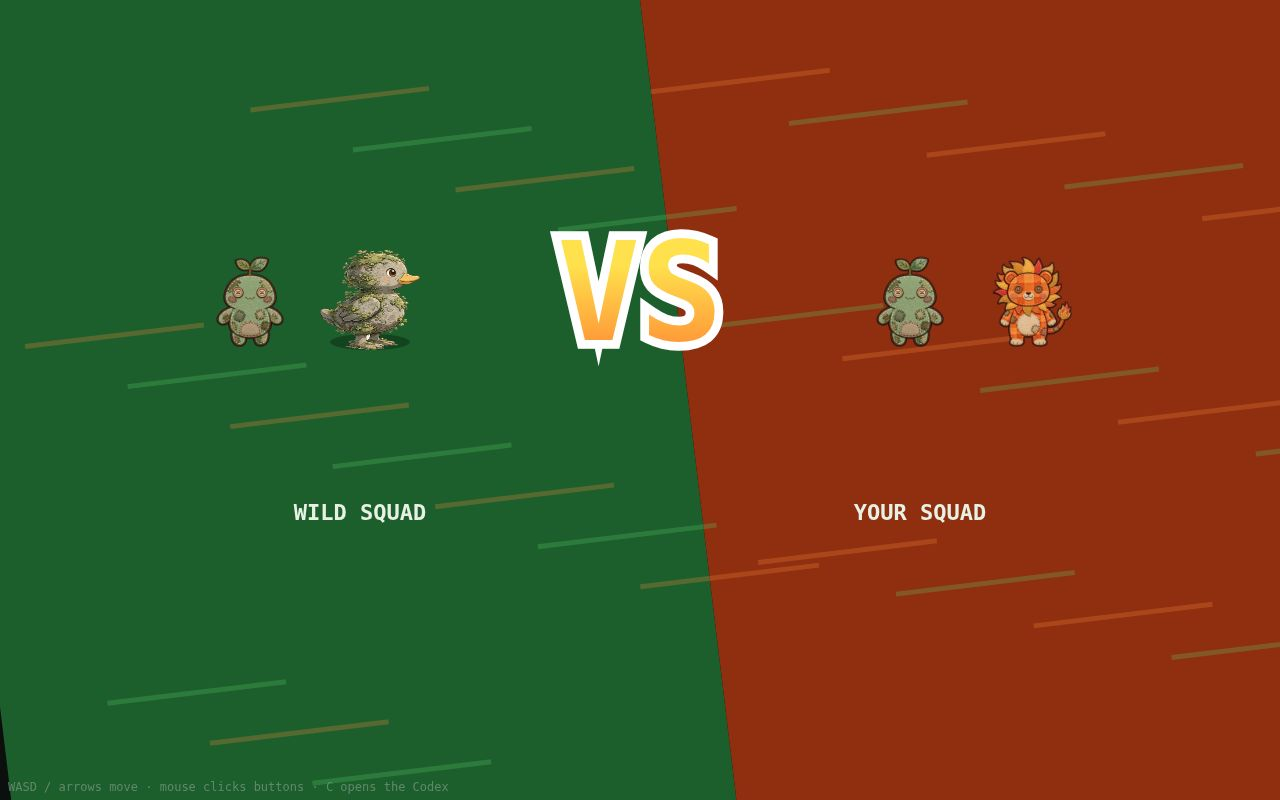
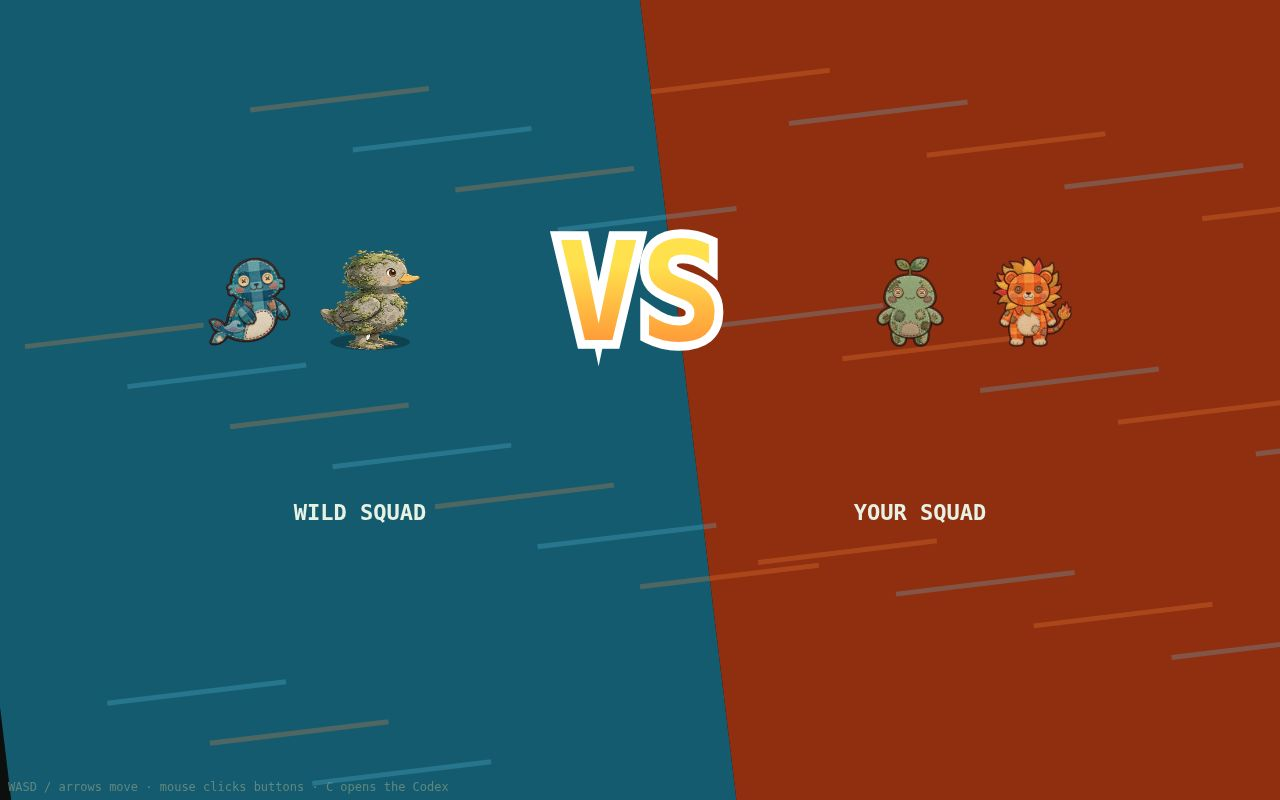
pre-fulltree local state

diff --git a/game/src/run.js b/game/src/run.js
@@ -353,7 +353,7 @@ export function restoreRun(data) {
 const EL_COLOR = (id) => ELEMENT_COLORS[SPECIES[id]?.element] || '#9fd8c8';
 const heartsRow = (ctx, x, y, run) => {
   for (let i = 0; i < 10; i++) {
-    ctx.font = '20px monospace'; ctx.fillStyle = i < run.hearts ? '#ff6a7a' : 'rgba(255,255,255,.14)';
+    ctx.font = '20px monospace'; ctx.fillStyle = i < run.hearts ? '#ff6a7a' : 'rgba(91,70,54,.20)';
     ctx.fillText('♥', x + i * 24, y);
   }
 };
@@ -381,9 +381,9 @@ export function drawRun(ctx, run, t, mouse) {
 
 function button(ctx, b, label, hot, sub) {
   if (!drawSlice(ctx, 'shop_button', b.x, b.y, b.w, Math.max(48, b.h), 18, hot ? 1 : 0.9)) {
-    ctx.fillStyle = hot ? 'rgba(255,209,106,.22)' : 'rgba(255,255,255,.06)';
+    ctx.fillStyle = hot ? 'rgba(255,201,60,.35)' : 'rgba(255,201,60,.10)';
     roundRect(ctx, b.x, b.y, b.w, b.h, 12); ctx.fill();
-    ctx.strokeStyle = hot ? '#ffd26a' : '#6f8f7d'; ctx.lineWidth = hot ? 3 : 2; ctx.stroke();
+    ctx.strokeStyle = hot ? '#d99a16' : '#5b4636'; ctx.lineWidth = hot ? 3 : 2; ctx.stroke();
   }
   ctx.fillStyle = '#3b2c17'; ctx.font = 'bold 17px monospace'; ctx.textAlign = 'center';
   ctx.fillText(label, b.x + b.w / 2, b.y + (sub ? 26 : b.h / 2 + 6));
@@ -401,7 +401,7 @@ function drawTrainerSelect(ctx, run, t, mouse) {
     run._btns = run._btns || []; run._btns[i] = { ...b, id: `trainer:${tr.id}` };
     const hot = mouse && mouse.x >= b.x && mouse.x <= b.x + b.w && mouse.y >= b.y && mouse.y <= b.y + b.h;
     if (!drawSlice(ctx, 'trainer_frame', b.x, b.y, b.w, b.h, 24, hot ? 1 : 0.92)) {
-      ctx.fillStyle = hot ? 'rgba(255,209,106,.10)' : 'rgba(255,255,255,.05)';
+      ctx.fillStyle = hot ? 'rgba(255,201,60,.28)' : 'rgba(255,201,60,.10)';
       roundRect(ctx, b.x, b.y, b.w, b.h, 16); ctx.fill();
       ctx.strokeStyle = ELEMENT_COLORS[tr.element] || '#8ef2a0'; ctx.lineWidth = hot ? 3 : 2; ctx.stroke();
     }
@@ -439,7 +439,7 @@ function drawShop(ctx, run, t, mouse) {
     const hot = inRect(mouse, b);
     ctx.globalAlpha = offer ? 1 : 0.25;
     if (!drawSlice(ctx, offer && offer.kind === 'item' ? 'shop_item' : 'shop_card', b.x, b.y, b.w, b.h, 16, 1)) {
-      ctx.fillStyle = hot ? 'rgba(142,242,160,.14)' : 'rgba(255,255,255,.05)';
+      ctx.fillStyle = hot ? 'rgba(127,191,106,.25)' : 'rgba(255,201,60,.10)';
       roundRect(ctx, b.x, b.y, b.w, b.h, 12); ctx.fill();
       ctx.strokeStyle = offer ? EL_COLOR(offer.species) : '#556'; ctx.lineWidth = 2; ctx.stroke();
     }
@@ -470,7 +470,7 @@ function drawShop(ctx, run, t, mouse) {
   run.board.forEach((c, i) => {
     const b = { x: X0 + i * (BW + 8), y: 280, w: BW, h: BH };
     run._btns.push({ ...b, id: `board:${i}` });
-    ctx.fillStyle = inRect(mouse, b) ? 'rgba(255,157,106,.12)' : 'rgba(255,255,255,.05)';
+    ctx.fillStyle = inRect(mouse, b) ? 'rgba(233,106,138,.18)' : 'rgba(255,201,60,.10)';
     roundRect(ctx, b.x, b.y, b.w, b.h, 12); ctx.fill();
     ctx.strokeStyle = EL_COLOR(c.species); ctx.lineWidth = 2; ctx.stroke();
     ctx.save(); ctx.translate(b.x + 52, b.y + 60); ctx.scale(0.7, 0.7);
@@ -490,7 +490,7 @@ function drawShop(ctx, run, t, mouse) {
   ctx.fillText('TRINKETS:', X0, 480);
   run.trinkets.forEach((tr, i) => {
     const b = { x: X0 + 90 + i * 118, y: 462, w: 112, h: 30 };
-    ctx.fillStyle = 'rgba(255,209,106,.12)'; roundRect(ctx, b.x, b.y, b.w, b.h, 8); ctx.fill();
+    ctx.fillStyle = 'rgba(255,201,60,.20)'; roundRect(ctx, b.x, b.y, b.w, b.h, 8); ctx.fill();
     ctx.strokeStyle = '#c8a355'; ctx.stroke();
     ctx.fillStyle = '#3b2c17'; ctx.font = '11px monospace'; ctx.fillText(tr.name, b.x + 8, b.y + 19);
   });
@@ -517,7 +517,7 @@ function drawShop(ctx, run, t, mouse) {
   // pending merge trinket picker overlay
   if (run.mergeTrinketPending && run.mergeTrinkets) drawTrinketRow(ctx, run, mouse, run.mergeTrinkets, 'pick your merge bonus');
 
-  if (!run.board.length) { ctx.fillStyle = '#ff9d6a'; ctx.font = 'bold 14px monospace'; ctx.textAlign = 'center'; ctx.fillText('buy at least one monster before battle', VIEW_W / 2, 630); ctx.textAlign = 'left'; }
+  if (!run.board.length) { ctx.fillStyle = '#e85d4a'; ctx.font = 'bold 14px monospace'; ctx.textAlign = 'center'; ctx.fillText('buy at least one monster before battle', VIEW_W / 2, 630); ctx.textAlign = 'left'; }
 }
 
 function drawTrinketRow(ctx, run, mouse, list, label) {
@@ -528,7 +528,7 @@ function drawTrinketRow(ctx, run, mouse, list, label) {
     const b = { x: X0 + i * (W + 20), y: 660, w: W, h: 96 };
     run._btns.push({ ...b, id: `trinket:${i}` });
     const hot = inRect(mouse, b);
-    ctx.fillStyle = hot ? 'rgba(255,209,106,.16)' : 'rgba(255,255,255,.05)';
+    ctx.fillStyle = hot ? 'rgba(255,201,60,.30)' : 'rgba(255,201,60,.10)';
     roundRect(ctx, b.x, b.y, b.w, b.h, 12); ctx.fill();
     ctx.strokeStyle = '#c8a355'; ctx.lineWidth = hot ? 2.5 : 1.5; ctx.stroke();
     ctx.fillStyle = '#3b2c17'; ctx.font = 'bold 16px monospace'; ctx.fillText(tr.name, b.x + 14, b.y + 30);
@@ -555,7 +555,7 @@ function drawReward(ctx, run, mouse) {
   run._btns = [];
   const r = run.reward;
   ctx.textAlign = 'center';
-  ctx.font = 'bold 34px monospace'; ctx.fillStyle = r.gain > 0 ? '#8ef2a0' : '#ff9d6a';
+  ctx.font = 'bold 34px monospace'; ctx.fillStyle = r.gain > 0 ? '#2e9e4f' : '#e85d4a';
   ctx.fillText(r.trinkets.length ? 'VICTORY!' : 'DEFEAT…', VIEW_W / 2, 140);
   ctx.font = 'bold 20px monospace'; ctx.fillStyle = '#3b2c17';
   ctx.fillText(`+⬤ ${r.gain}`, VIEW_W / 2, 178);
@@ -575,9 +575,9 @@ function drawReward(ctx, run, mouse) {
 function drawChampion(ctx, run, mouse) {
   // FIX: same stale-button shadowing as drawReward — rebuild the hit list.
   run._btns = [];
-  ctx.textAlign = 'center'; ctx.font = 'bold 40px monospace'; ctx.fillStyle = '#ffe9b1';
+  ctx.textAlign = 'center'; ctx.font = 'bold 40px monospace'; ctx.fillStyle = '#d99a16';
   ctx.fillText('★ YOU ARE A QUILT CHAMPION ★', VIEW_W / 2, 260);
-  ctx.font = '18px monospace'; ctx.fillStyle = '#8ef2a0';
+  ctx.font = '18px monospace'; ctx.fillStyle = '#2e9e4f';
   ctx.fillText(`Day 10 cleared with ${run.hearts} hearts · rank: ${run.rank}`, VIEW_W / 2, 310);
   ctx.textAlign = 'left';
   const opts = [{ id: 'endless', label: 'EXTENDED (endless)', x: VIEW_W / 2 - 300 }, { id: 'menu', label: 'MAIN MENU', x: VIEW_W / 2 + 40 }];
@@ -591,7 +591,7 @@ function drawChampion(ctx, run, mouse) {
 function drawOver(ctx, run, mouse) {
   // FIX: same stale-button shadowing as drawReward — rebuild the hit list.
   run._btns = [];
-  ctx.textAlign = 'center'; ctx.font = 'bold 36px monospace'; ctx.fillStyle = '#ff9d6a';
+  ctx.textAlign = 'center'; ctx.font = 'bold 36px monospace'; ctx.fillStyle = '#e85d4a';
   ctx.fillText('RUN OVER', VIEW_W / 2, 250);
   ctx.font = '18px monospace'; ctx.fillStyle = '#9fd8c8';
   ctx.fillText(`survived to Day ${run.day} · best Day ${run.bestDay} · ${run.champion ? 'CHAMPION' : 'rank ' + run.rank}`, VIEW_W / 2, 300);

diff --git a/game/src/hud.js b/game/src/hud.js
@@ -87,8 +87,8 @@ function hpColor(frac) { return frac > 0.5 ? PALETTE.hpGood : frac > 0.22 ? PALE
 
 export function hpBar(ctx, x, y, w, h, frac) {
   if (hpBarArt(ctx, x, y, w, h, frac)) return;
-  ctx.fillStyle = '#0a0f0a'; roundRect(ctx, x, y, w, h, h / 2); ctx.fill();
-  ctx.strokeStyle = '#31493a'; ctx.lineWidth = 2; roundRect(ctx, x, y, w, h, h / 2); ctx.stroke();
+  ctx.fillStyle = '#e7dcc0'; roundRect(ctx, x, y, w, h, h / 2); ctx.fill();
+  ctx.strokeStyle = '#5b4636'; ctx.lineWidth = 2; roundRect(ctx, x, y, w, h, h / 2); ctx.stroke();
   if (frac > 0.001) {
     ctx.fillStyle = hpColor(frac);
     roundRect(ctx, x + 2, y + 2, Math.max(h - 4, (w - 4) * frac), h - 4, (h - 4) / 2); ctx.fill();
@@ -152,7 +152,7 @@ export function drawFieldHud(ctx, state, t) {
     ctx.font = 'bold 26px monospace'; ctx.textAlign = 'center';
     const w = ctx.measureText(world.notice.text).width + 60;
     panel(ctx, VIEW_W / 2 - w / 2, 108, w, 56, 0.94);
-    ctx.fillStyle = PALETTE.paper;
+    ctx.fillStyle = INK;
     ctx.fillText(world.notice.text, VIEW_W / 2, 145);
     ctx.textAlign = 'left';
   }
@@ -164,12 +164,12 @@ export function drawHudButton(ctx, x, y, w, h, label, hot = false) {
   if (drawButtonArt(ctx, x, y, w, h, hot)) {
     // sprite drawn; skip procedural fill below
   } else {
-    ctx.fillStyle = hot ? '#2a4f38' : PALETTE.panel;
+    ctx.fillStyle = hot ? '#ffc93c' : PALETTE.panel;
     roundRect(ctx, x, y, w, h, 10); ctx.fill();
     ctx.strokeStyle = hot ? ELEMENT_COLORS.Verdant.main : PALETTE.panelEdge; ctx.lineWidth = 2.5;
     roundRect(ctx, x, y, w, h, 10); ctx.stroke();
   }
-  ctx.fillStyle = PALETTE.paper; ctx.font = 'bold 15px monospace'; ctx.textAlign = 'center';
+  ctx.fillStyle = INK; ctx.font = 'bold 15px monospace'; ctx.textAlign = 'center';
   ctx.fillText(label, x + w / 2, y + h / 2 + 5);
   ctx.restore();
 }
@@ -202,8 +202,8 @@ export function drawBattleHud(ctx, battle, state, t, buttons, hovered) {
   ctx.fillText(`${battle.player.hp}/${battle.player.stats.hp}`, VIEW_W - 148, 537);
   ctx.textAlign = 'left';
   // xp bar
-  ctx.fillStyle = '#0a0f0a'; roundRect(ctx, VIEW_W - 462, 548, 268, 8, 4); ctx.fill();
-  ctx.fillStyle = '#6fa8ff'; roundRect(ctx, VIEW_W - 462, 548, Math.max(8, 268 * (battle.player.xp / battle.player.xpNext)), 8, 4); ctx.fill();
+  ctx.fillStyle = '#e7dcc0'; roundRect(ctx, VIEW_W - 462, 548, 268, 8, 4); ctx.fill();
+  ctx.fillStyle = '#7ec8e3'; roundRect(ctx, VIEW_W - 462, 548, Math.max(8, 268 * (battle.player.xp / battle.player.xpNext)), 8, 4); ctx.fill();
   ctx.font = '11px monospace'; ctx.fillStyle = INK_SUB; ctx.textAlign = 'left';
   ctx.fillText(`XP ${battle.player.xp}/${battle.player.xpNext}`, VIEW_W - 462, 572);
   ctx.textAlign = 'left';
@@ -213,7 +213,7 @@ export function drawBattleHud(ctx, battle, state, t, buttons, hovered) {
     const x = 60 + i * 96, y = VIEW_H - 46;
     ctx.fillStyle = c.hp > 0 ? ELEMENT_COLORS[SPECIES[c.species].element].main : '#3a3f3a';
     ctx.beginPath(); ctx.arc(x, y, 12, 0, 7); ctx.fill();
-    ctx.strokeStyle = battle.player === c ? PALETTE.paper : 'rgba(0,0,0,.5)'; ctx.lineWidth = 3; ctx.stroke();
+    ctx.strokeStyle = battle.player === c ? INK : 'rgba(0,0,0,.5)'; ctx.lineWidth = 3; ctx.stroke();
     ctx.fillStyle = PALETTE.paper; ctx.font = '11px monospace'; ctx.textAlign = 'center';
     ctx.fillText(`L${c.level}`, x, y + 4);
     ctx.textAlign = 'left';
@@ -223,7 +223,7 @@ export function drawBattleHud(ctx, battle, state, t, buttons, hovered) {
   for (const b of buttons) {
     drawHudButton(ctx, b.x, b.y, b.w, b.h, b.label, hovered === b.id);
     if (b.sub) {
-      ctx.fillStyle = '#9fb8a6'; ctx.font = '11px monospace'; ctx.textAlign = 'center';
+      ctx.fillStyle = INK_SUB; ctx.font = '11px monospace'; ctx.textAlign = 'center';
       ctx.fillText(b.sub, b.x + b.w / 2, b.y + b.h + 15); ctx.textAlign = 'left';
     }
   }

diff --git a/game/src/showdown.js b/game/src/showdown.js
@@ -338,14 +338,14 @@ export function drawShowdown(ctx, sd, t) {
   if (sd.zone && drawBattleBg(ctx, sd.zone, W, H)) { /* painted backdrop */ }
   else {
     const bg = ctx.createLinearGradient(0, 0, 0, H);
-    bg.addColorStop(0, '#131a14'); bg.addColorStop(1, '#0b0f0d');
+    bg.addColorStop(0, '#dff3fb'); bg.addColorStop(1, '#fff3c4');
     ctx.fillStyle = bg; ctx.fillRect(0, 0, W, H);
   }
 
   if (sd.phase === 'vs') { drawVsCard(ctx, sd); return; }
 
   // arena floor band
-  ctx.fillStyle = 'rgba(0,0,0,.18)';
+  ctx.fillStyle = 'rgba(91,70,54,.12)';
   ctx.fillRect(0, 260, W, 340);
 
   const shakeX = sd.shake > 0 ? Math.sin(t * 70) * 4 * sd.shake : 0;
@@ -430,21 +430,21 @@ export function drawShowdown(ctx, sd, t) {
     ctx.strokeText(`Lv.${u.c.level}`, p.x, p.y - size * 0.62);
     ctx.fillText(`Lv.${u.c.level}`, p.x, p.y - size * 0.62);
     if (u.ability) {
-      ctx.fillStyle = '#9fd8c8';
+      ctx.fillStyle = '#2e9e8f';
       ctx.strokeText(ABILITIES[u.ability].name.toUpperCase(), p.x, p.y - size * 0.62 - 14);
       ctx.fillText(ABILITIES[u.ability].name.toUpperCase(), p.x, p.y - size * 0.62 - 14);
     }
     // per-unit hp bar
     const bw = size * 0.86;
     const hpf = u.maxHp ? u.hp / u.maxHp : 0;
-    ctx.fillStyle = 'rgba(6,10,6,.85)'; roundRect(ctx, p.x - bw / 2, p.y + size * 0.52, bw, 8, 4); ctx.fill();
+    ctx.fillStyle = 'rgba(59,44,23,.85)'; roundRect(ctx, p.x - bw / 2, p.y + size * 0.52, bw, 8, 4); ctx.fill();
     if (hpf > 0) {
       ctx.fillStyle = hpf > 0.5 ? PALETTE.hpGood : hpf > 0.22 ? PALETTE.hpMid : PALETTE.hpBad;
       roundRect(ctx, p.x - bw / 2 + 1, p.y + size * 0.52 + 1, (bw - 2) * hpf, 6, 3); ctx.fill();
     }
     // charge bar
     if (u.alive) {
-      ctx.fillStyle = 'rgba(6,10,6,.85)'; roundRect(ctx, p.x - bw / 2, p.y + size * 0.52 + 12, bw, 6, 3); ctx.fill();
+      ctx.fillStyle = 'rgba(59,44,23,.85)'; roundRect(ctx, p.x - bw / 2, p.y + size * 0.52 + 12, bw, 6, 3); ctx.fill();
       const el = ELEMENT_COLORS[u.sp.element];
       ctx.fillStyle = u.charge >= 1 ? '#ffffff' : el.main;
       roundRect(ctx, p.x - bw / 2 + 1, p.y + size * 0.52 + 13, (bw - 2) * Math.min(1, u.charge), 4, 2); ctx.fill();

diff --git a/game/src/config.js b/game/src/config.js
@@ -27,10 +27,10 @@ export const DEFEAT_PENALTY_ITEMS = 1; // lost seedstones when the party falls
 export const T = { GROUND: 0, GRASS: 1, ROCK: 2, WATER: 3, PATH: 4, FLOWER: 5, EXIT_E: 6, EXIT_W: 7, BOSS: 8, SPRING: 9, PILLAR: 10 };
 
 export const PALETTE = {
-  ink: '#0b0f0d',
-  paper: '#e8f2e4',
-  panel: '#152420',
-  panelEdge: '#3b5a47',
+  ink: '#241a12',
+  paper: '#fff6dc',
+  panel: '#fff6dc',
+  panelEdge: '#5b4636',
   shadow: 'rgba(0,0,0,.45)',
   hpGood: '#57d27a',
   hpMid: '#e6c84a',
@@ -51,7 +51,7 @@ export const ELEMENT_COLORS = {
 };
 
 export const ZONES = [
-  { id: 'moss', name: 'Moss Meadow', bg: '#18311f', accent: '#5fd36a', music: 0 },
-  { id: 'cliff', name: 'Cinder Bluff', bg: '#30160c', accent: '#ff8a3c', music: 1 },
-  { id: 'temple', name: 'Gloom Shrine', bg: '#1c1230', accent: '#a05fe0', music: 2 },
+  { id: 'moss', name: 'Moss Meadow', bg: '#cfe8b4', accent: '#5fd36a', music: 0 },
+  { id: 'cliff', name: 'Cinder Bluff', bg: '#ffd9a8', accent: '#ff8a3c', music: 1 },
+  { id: 'temple', name: 'Gloom Shrine', bg: '#e3d4f5', accent: '#a05fe0', music: 2 },
 ];

diff --git a/game/src/bg.js b/game/src/bg.js
@@ -26,7 +26,7 @@ export function drawBattleBg(ctx, zoneId, w, h) {
   const entry = cache[id];
   if (!entry || !entry.ok) return false;
   ctx.drawImage(entry.img, 0, 0, w, h);
-  ctx.fillStyle = 'rgba(8,10,14,0.30)';
+  ctx.fillStyle = 'rgba(91,70,54,0.15)';
   ctx.fillRect(0, 0, w, h);
   return true;
 }

diff --git a/game/_bright_patch.py b/game/_bright_patch.py
@@ -1,0 +1,130 @@
+import re, sys, shutil, os
+
+R = os.path.expanduser('~/makefun/bgrepo/game')
+
+def sub(path, pairs):
+    p = os.path.join(R, path)
+    s = open(p).read()
+    for old, new, *opt in pairs:
+        cnt = opt[0] if opt else 1
+        n = s.count(old)
+        if n != cnt:
+            print(f'FAIL {path}: expected {cnt} of {old!r}, found {n}'); sys.exit(1)
+        s = s.replace(old, new)
+    open(p, 'w').write(s)
+    print('ok', path)
+
+# assets: copy all except coin_icon (byte-identical)
+pack = '/home/andre/bright-v2/pack'
+for f in os.listdir(pack):
+    if f.endswith('.png') and f != 'coin_icon.png':
+        shutil.copy(os.path.join(pack, f), os.path.join(R, 'assets/ui', f))
+        print('asset', f)
+
+sub('src/config.js', [
+    ("ink: '#0b0f0d',", "ink: '#241a12',"),
+    ("paper: '#e8f2e4',", "paper: '#fff6dc',"),
+    ("panel: '#152420',", "panel: '#fff6dc',"),
+    ("panelEdge: '#3b5a47',", "panelEdge: '#5b4636',"),
+    ("bg: '#18311f'", "bg: '#cfe8b4'"),
+    ("bg: '#30160c'", "bg: '#ffd9a8'"),
+    ("bg: '#1c1230'", "bg: '#e3d4f5'"),
+])
+
+sub('src/hud.js', [
+    ("ctx.fillStyle = '#0a0f0a'; roundRect(ctx, x, y, w, h, h / 2)", "ctx.fillStyle = '#e7dcc0'; roundRect(ctx, x, y, w, h, h / 2)"),
+    ("ctx.strokeStyle = '#31493a'", "ctx.strokeStyle = '#5b4636'"),
+    ("panel(ctx, VIEW_W / 2 - w / 2, 108, w, 56, 0.94);\n    ctx.fillStyle = PALETTE.paper;", "panel(ctx, VIEW_W / 2 - w / 2, 108, w, 56, 0.94);\n    ctx.fillStyle = INK;"),
+    ("ctx.fillStyle = hot ? '#2a4f38' : PALETTE.panel;", "ctx.fillStyle = hot ? '#ffc93c' : PALETTE.panel;"),
+    ("ctx.fillStyle = PALETTE.paper; ctx.font = 'bold 15px monospace'", "ctx.fillStyle = INK; ctx.font = 'bold 15px monospace'"),
+    ("ctx.fillStyle = '#0a0f0a'; roundRect(ctx, VIEW_W - 462, 548, 268, 8, 4)", "ctx.fillStyle = '#e7dcc0'; roundRect(ctx, VIEW_W - 462, 548, 268, 8, 4)"),
+    ("ctx.fillStyle = '#6fa8ff'; roundRect(ctx, VIEW_W - 462", "ctx.fillStyle = '#7ec8e3'; roundRect(ctx, VIEW_W - 462"),
+    ("ctx.strokeStyle = battle.player === c ? PALETTE.paper : 'rgba(0,0,0,.5)'", "ctx.strokeStyle = battle.player === c ? INK : 'rgba(0,0,0,.5)'"),
+    ("ctx.fillStyle = '#9fb8a6'; ctx.font = '11px monospace'", "ctx.fillStyle = INK_SUB; ctx.font = '11px monospace'"),
+])
+
+sub('src/showdown.js', [
+    ("bg.addColorStop(0, '#131a14'); bg.addColorStop(1, '#0b0f0d');", "bg.addColorStop(0, '#dff3fb'); bg.addColorStop(1, '#fff3c4');"),
+    ("ctx.fillStyle = 'rgba(0,0,0,.18)';", "ctx.fillStyle = 'rgba(91,70,54,.12)';"),
+    ("ctx.fillStyle = '#9fd8c8';\n", "ctx.fillStyle = '#2e9e8f';\n", 1),
+    ("ctx.fillStyle = 'rgba(6,10,6,.85)'", "ctx.fillStyle = 'rgba(59,44,23,.85)'", 2),
+])
+
+sub('src/bg.js', [("'rgba(8,10,14,0.30)'", "'rgba(91,70,54,0.15)'")])
+
+sub('src/run.js', [
+    ("'rgba(255,255,255,.14)'", "'rgba(91,70,54,.20)'"),
+    ("ctx.fillStyle = hot ? 'rgba(255,209,106,.22)' : 'rgba(255,255,255,.06)';", "ctx.fillStyle = hot ? 'rgba(255,201,60,.35)' : 'rgba(255,201,60,.10)';"),
+    ("ctx.strokeStyle = hot ? '#ffd26a' : '#6f8f7d';", "ctx.strokeStyle = hot ? '#d99a16' : '#5b4636';"),
+    ("ctx.fillStyle = hot ? 'rgba(255,209,106,.10)' : 'rgba(255,255,255,.05)';", "ctx.fillStyle = hot ? 'rgba(255,201,60,.28)' : 'rgba(255,201,60,.10)';"),
+    ("ctx.fillStyle = hot ? 'rgba(142,242,160,.14)' : 'rgba(255,255,255,.05)';", "ctx.fillStyle = hot ? 'rgba(127,191,106,.25)' : 'rgba(255,201,60,.10)';"),
+    ("ctx.fillStyle = inRect(mouse, b) ? 'rgba(255,157,106,.12)' : 'rgba(255,255,255,.05)';", "ctx.fillStyle = inRect(mouse, b) ? 'rgba(233,106,138,.18)' : 'rgba(255,201,60,.10)';"),
+    ("ctx.fillStyle = 'rgba(255,209,106,.12)';", "ctx.fillStyle = 'rgba(255,201,60,.20)';"),
+    ("ctx.fillStyle = hot ? 'rgba(255,209,106,.16)' : 'rgba(255,255,255,.05)';", "ctx.fillStyle = hot ? 'rgba(255,201,60,.30)' : 'rgba(255,201,60,.10)';"),
+    ("ctx.fillStyle = '#ff9d6a'; ctx.font = 'bold 14px monospace'", "ctx.fillStyle = '#e85d4a'; ctx.font = 'bold 14px monospace'"),
+    ("ctx.font = 'bold 34px monospace'; ctx.fillStyle = r.gain > 0 ? '#8ef2a0' : '#ff9d6a';", "ctx.font = 'bold 34px monospace'; ctx.fillStyle = r.gain > 0 ? '#2e9e4f' : '#e85d4a';"),
+    ("ctx.textAlign = 'center'; ctx.font = 'bold 40px monospace'; ctx.fillStyle = '#ffe9b1';", "ctx.textAlign = 'center'; ctx.font = 'bold 40px monospace'; ctx.fillStyle = '#d99a16';"),
+    ("ctx.font = '18px monospace'; ctx.fillStyle = '#8ef2a0';", "ctx.font = '18px monospace'; ctx.fillStyle = '#2e9e4f';"),
+    ("ctx.textAlign = 'center'; ctx.font = 'bold 36px monospace'; ctx.fillStyle = '#ff9d6a';", "ctx.textAlign = 'center'; ctx.font = 'bold 36px monospace'; ctx.fillStyle = '#e85d4a';"),
+])
+
+sub('src/screens.js', [
+    ("g.addColorStop(0, '#0c1a10'); g.addColorStop(0.6, '#10241a'); g.addColorStop(1, '#1c1230');", "g.addColorStop(0, '#cfeef7'); g.addColorStop(0.6, '#e8f7ee'); g.addColorStop(1, '#fff3c4');"),
+    ("wash.addColorStop(0, 'rgba(10,20,12,0.82)'); wash.addColorStop(0.35, 'rgba(12,24,16,0.45)');", "wash.addColorStop(0, 'rgba(255,246,220,0.30)'); wash.addColorStop(0.35, 'rgba(255,246,220,0.10)');"),
+    ("wash.addColorStop(0.75, 'rgba(16,14,38,0.55)'); wash.addColorStop(1, 'rgba(16,14,38,0.85)');", "wash.addColorStop(0.75, 'rgba(255,214,110,0.15)'); wash.addColorStop(1, 'rgba(255,214,110,0.30)');"),
+    ("ctx.fillStyle = 'rgba(18,28,20,0.55)';", "ctx.fillStyle = 'rgba(255,246,220,0.85)';"),
+    ("ctx.strokeStyle = 'rgba(159,213,168,0.85)';", "ctx.strokeStyle = 'rgba(91,70,54,0.90)';"),
+    ("'bold 58px monospace', PALETTE.paper);", "'bold 58px monospace', '#3b2c17');"),
+    ("'explore · battle · capture the three Tribus', VIEW_W / 2, 212, '18px monospace', '#9fd5a8');", "'explore · battle · capture the three Tribus', VIEW_W / 2, 212, '18px monospace', '#2e7d32');"),
+    ("'14px monospace', '#a8c4ae');", "'14px monospace', '#6d5b3c');"),
+    ("'13px monospace', '#6d8674');", "'13px monospace', '#6d5b3c');"),
+    ("ctx.fillStyle = '#0d1512';", "ctx.fillStyle = '#fdf3d0';"),
+    ("'◈ THE VERDANT CODEX ◈', VIEW_W / 2, 54, 'bold 30px monospace', PALETTE.paper);", "'◈ THE VERDANT CODEX ◈', VIEW_W / 2, 54, 'bold 30px monospace', '#3b2c17');"),
+    ("'14px monospace', '#9fb8a6');", "'14px monospace', '#6d5b3c');"),
+    ("ctx.fillStyle = PALETTE.paper; ctx.font = 'bold 16px monospace';", "ctx.fillStyle = '#3b2c17'; ctx.font = 'bold 16px monospace';"),
+    ("ctx.fillStyle = '#9fb8a6';", "ctx.fillStyle = '#6d5b3c';", 4),
+    ("ctx.fillStyle = caught ? PALETTE.hpGood : '#6f8577';", "ctx.fillStyle = caught ? PALETTE.hpGood : '#2e7d32';"),
+    ("'TYPE CHART', cx + 150, 140, 'bold 17px monospace', PALETTE.paper);", "'TYPE CHART', cx + 150, 140, 'bold 17px monospace', '#3b2c17');"),
+    ("bg.addColorStop(0, '#171029'); bg.addColorStop(1, '#0e2216');", "bg.addColorStop(0, '#fdf3c4'); bg.addColorStop(1, '#d8f0c0');"),
+    ("'bold 42px monospace', '#e8d5ff');", "'bold 42px monospace', '#6a3e8f');"),
+    ("'Nocturne is bound — the showdown is won', VIEW_W / 2, 172, '18px monospace', '#9fd5a8');", "'Nocturne is bound — the showdown is won', VIEW_W / 2, 172, '18px monospace', '#2e7d32');"),
+    ("'bold 20px monospace', PALETTE.paper);", "'bold 20px monospace', '#3b2c17');"),
+    ("'bold 36px monospace', '#ffe14d');", "'bold 36px monospace', '#d99a16');"),
+    ("'12px monospace', '#9fb8a6');", "'12px monospace', '#6d5b3c');", 1),
+    ("ctx.fillStyle = '#12080c';", "ctx.fillStyle = '#ffe3e3';"),
+    ("'bold 38px monospace', '#ff9d9d');", "'bold 38px monospace', '#e85d4a');"),
+    ("'16px monospace', '#c9a8b0');", "'16px monospace', '#8a5a63');"),
+    ("'your Codex and captures are kept', VIEW_W / 2, 500, '13px monospace', '#7d6b70');", "'your Codex and captures are kept', VIEW_W / 2, 500, '13px monospace', '#6d5b3c');"),
+])
+
+sub('src/road.js', [
+    ("{ bg: '#4a7d4e',", "{ bg: '#5da85f',"),
+    ("{ bg: '#a03434',", "{ bg: '#c04545',"),
+    ("{ bg: '#3e7d84',", "{ bg: '#4a9aa3',"),
+    ("{ bg: '#c8861e',", "{ bg: '#e09a24',"),
+    ("{ bg: '#b3628c',", "{ bg: '#c975a4',"),
+    ("{ bg: '#5d76b8',", "{ bg: '#7a93d6',"),
+    ("{ bg: '#6a3e8f',", "{ bg: '#8a55b0',"),
+    ("ctx.fillStyle = 'rgba(74,44,94,.95)';", "ctx.fillStyle = 'rgba(255,246,220,.95)';"),
+    ("ctx.strokeStyle = '#2a1436';", "ctx.strokeStyle = '#5b4636';"),
+    ("ctx.fillStyle = '#fff'; ctx.textAlign = 'center'; ctx.fillText(desc", "ctx.fillStyle = '#3b2c17'; ctx.textAlign = 'center'; ctx.fillText(desc"),
+])
+
+sub('src/main.js', [
+    ("ctx.fillStyle = '#0b0f0d'; ctx.fillRect(0, 0, VIEW_W, VIEW_H);", "ctx.fillStyle = '#f7ead0'; ctx.fillRect(0, 0, VIEW_W, VIEW_H);"),
+    ("ctx.fillStyle = '#e8d5a9';", "ctx.fillStyle = '#3b2c17';"),
+    ("ctx.fillStyle = PALETTE.paper; ctx.font = '17px monospace';", "ctx.fillStyle = '#3b2c17'; ctx.font = '17px monospace';"),
+    ("ctx.fillStyle = '#9fb8a6'; ctx.font = '13px monospace';", "ctx.fillStyle = '#6d5b3c'; ctx.font = '13px monospace';"),
+])
+
+# cache-buster run2 -> run3 everywhere
+for root, dirs, files in os.walk(R):
+    if '.git' in root or 'node_modules' in root: continue
+    for f in files:
+        if f.endswith(('.js', '.html')):
+            p = os.path.join(root, f)
+            s = open(p).read()
+            if 'v=run2' in s:
+                open(p, 'w').write(s.replace('v=run2', 'v=run3'))
+                print('busted', p)
+print('DONE')
